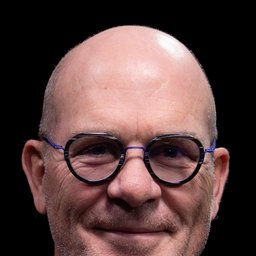
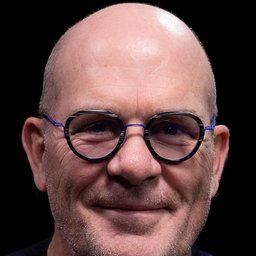
style: green theme, H2 underline, footer, pre-header, author photo refs #7
Apply the visual iteration: recolour the brand accent to a muted green
(AA-safe), unify headings on the body serif, give H2s a full-width underline
instead of the default separating rule, add a frontmatter-driven uppercase
pre-header keyword, a two-part footer, and a floated author photo linking to
GitHub. Also pre-bundle Mermaid's CJS deps so the dev server renders.

- custom.css: green tokens, serif headings, H2 underline, footer, pre-header,
  floated .author-photo linking to GitHub
- config.mts: vite.optimizeDeps for mermaid/dayjs/fastdom so make serve works
- SiteFooter tagline and privacy/history/about copy and keywords
- real cropped author.jpg; drop the placeholder hello-boring-world post

diff --git a/documentation/.vitepress/theme/custom.css b/documentation/.vitepress/theme/custom.css
@@ -176,23 +176,7 @@
 /* Constrain the top nav to the content column instead of full-bleed. */
 :root {
   --content-max: 48rem;
-}
-
-.VPNav .content,
-.VPNavBar .container {
-  max-width: var(--content-max);
-  margin-inline: auto;
-}
-
-/* Reshape the content container: a single centered reading column. */
-.VPDoc .container,
-.VPDoc.has-aside .content-container {
-  max-width: var(--content-max);
-  margin-inline: auto;
-}
-
-.VPDoc .content {
-  padding-inline: 1.25rem;
+  --content-pad: 24px;
 }
 
 /* Pre-header: a colored uppercase keyword above the page title. */
@@ -229,12 +213,33 @@
   color: var(--vp-c-brand-1);
 }
 
-/* Author photo on the About page. */
-.author-photo {
-  width: 96px;
-  height: 96px;
-  border-radius: 50%;
+/* Author photo on the About page — floated to the side, links to GitHub. */
+.author-photo-link {
   float: right;
-  margin: 0 0 1rem 1.5rem;
+  margin: 0.25rem 0 1rem 1.5rem;
+}
+
+.author-photo {
+  display: block;
+  width: 128px;
+  height: 128px;
+  border-radius: 50%;
+  object-fit: cover;
   border: 1px solid var(--vp-c-divider);
+  transition: border-color 0.15s ease;
+}
+
+.author-photo-link:hover .author-photo {
+  border-color: var(--vp-c-brand-1);
+}
+
+/* H2: drop the default theme's separating rule ABOVE the heading, and use a
+   thin full-width underline BELOW the title text instead. The h2 is block-level
+   so the border spans the whole content column, not just the text. */
+.vp-doc h2 {
+  border-top: none;
+  padding-top: 0;
+  margin-top: 2.5rem;
+  padding-bottom: 0.3rem;
+  border-bottom: 1px solid var(--vp-c-divider);
 }

diff --git a/documentation/.vitepress/theme/SiteFooter.vue b/documentation/.vitepress/theme/SiteFooter.vue
@@ -4,7 +4,8 @@ import { withBase } from 'vitepress'
 
 <template>
   <footer class="site-footer">
-    <span class="site-footer-tagline">Simple, durable systems — built on purpose.</span>
-    <a :href="withBase('/privacy')">Privacy</a>
+    <span class="site-footer-tagline">How to stay frugal through the agentic revolution?</span>
+    --
+    <a :href="withBase('/privacy')">Privacy Policy</a>
   </footer>
 </template>

diff --git a/documentation/about.md b/documentation/about.md
@@ -1,7 +1,7 @@
 ---
 state: production
 layout: doc
-keyword: about
+keyword: Boring Steps
 ---
 
 # About
@@ -10,37 +10,29 @@ _Boring steps_ is a blog about building simple, durable systems on purpose.
 The bet is that boring — proven, predictable tools and plain structures — beats
 novelty for its own sake, and lets the ideas stay the interesting part.
 
+## Principles
+
+- **Boring on purpose.** Favour proven, predictable tools and patterns over novelty for its own sake. Sustainable innovation is about making upcoming things as boring as possible, quickly.
+
+- **Recycle capable assets.** There are so many good and stable building block available. Just use them, maybe with a tweak. Leveraging what you have and know is more efficient than daily table stakes.
+
+- **Composable agentic distributed systems.** Do not give away your decision power to frameworks or platforms. Build your own toolbox too. This is the most sure path towards expertise.
+
+## Why "Boring Steps"?
+
+Good systems are rarely one clever leap; they are a sequence of small, dull, deliberate steps that each hold up on their own. The name is a reminder to favour the unremarkable move that keeps working over the exciting one that needs babysitting.
+
+Inspired by Dan McKinley: [Choose Boring Technology](https://mcfunley.com/choose-boring-technology) (2015).
+
+And by Amazon's leadership principle: [Frugality](https://amazon.jobs/content/en/our-workplace/leadership-principles). "Accomplish more with less. Constraints breed resourcefulness, self-sufficiency, and invention. There are no extra points for growing headcount, budget size, or fixed expense."
+
 ## The author
 
-<img src="/author.jpg" alt="Bernard Paques" class="author-photo" />
+<a href="https://github.com/bernard357" class="author-photo-link" aria-label="Bernard Paques on GitHub"><img src="/author.jpg" alt="Bernard Paques" class="author-photo" /></a>
 
 Written by **Bernard Paques**. I build and operate systems for a living, and I
 keep coming back to the same lesson: the parts that last are the boring ones —
-the conventions, the small scripts, the choices you do not have to revisit.
+the conventions, the small scripts, the choices that set clear boundaries.
 This blog is where I write those down.
 
-Find me on [GitHub](https://github.com/bernard357).
-
-## Why "boring steps"
-
-Good systems are rarely one clever leap; they are a sequence of small, dull,
-deliberate steps that each hold up on their own. The name is a reminder to
-favour the unremarkable move that keeps working over the exciting one that
-needs babysitting.
-
-## Principles
-
-- **Boring on purpose.** Favour proven, predictable tools over novelty for its
-  own sake.
-- **Static and durable.** Authored in Markdown, built with VitePress, served
-  from GitHub Pages.
-- **Automated publishing.** Every push to `main` rebuilds and republishes the
-  site, with no manual steps.
-
-## Colophon
-
-The site is authored in Markdown under `documentation/`, built as a static site
-with [VitePress](https://vitepress.dev/), and published to
-[GitHub Pages](https://docs.github.com/en/pages). Posts are flat, deep-linkable
-pages; see [blog structure](/blog-structure) for how they are authored and
-indexed.
+Find me on [GitHub](https://github.com/bernard357) or on [LinkedIn](https://www.linkedin.com/in/webnetworker).

diff --git a/documentation/privacy.md b/documentation/privacy.md
@@ -1,10 +1,10 @@
 ---
 state: production
 layout: doc
-keyword: legal
+keyword: Boring Steps
 ---
 
-# Privacy
+# Privacy Policy
 
 The short version: there is nothing to collect, so there is nothing to disclose.
 Boring steps is a static site with no accounts, no analytics, no cookies, no

diff --git a/documentation/history.md b/documentation/history.md
@@ -4,11 +4,10 @@ layout: doc
 aside: false
 outline: false
 sidebar: false
+keyword: Boring Steps
 ---
 
-# History
-
-Every post, newest first.
+# Past content
 
 <script setup>
 import { ref, onMounted } from 'vue'
